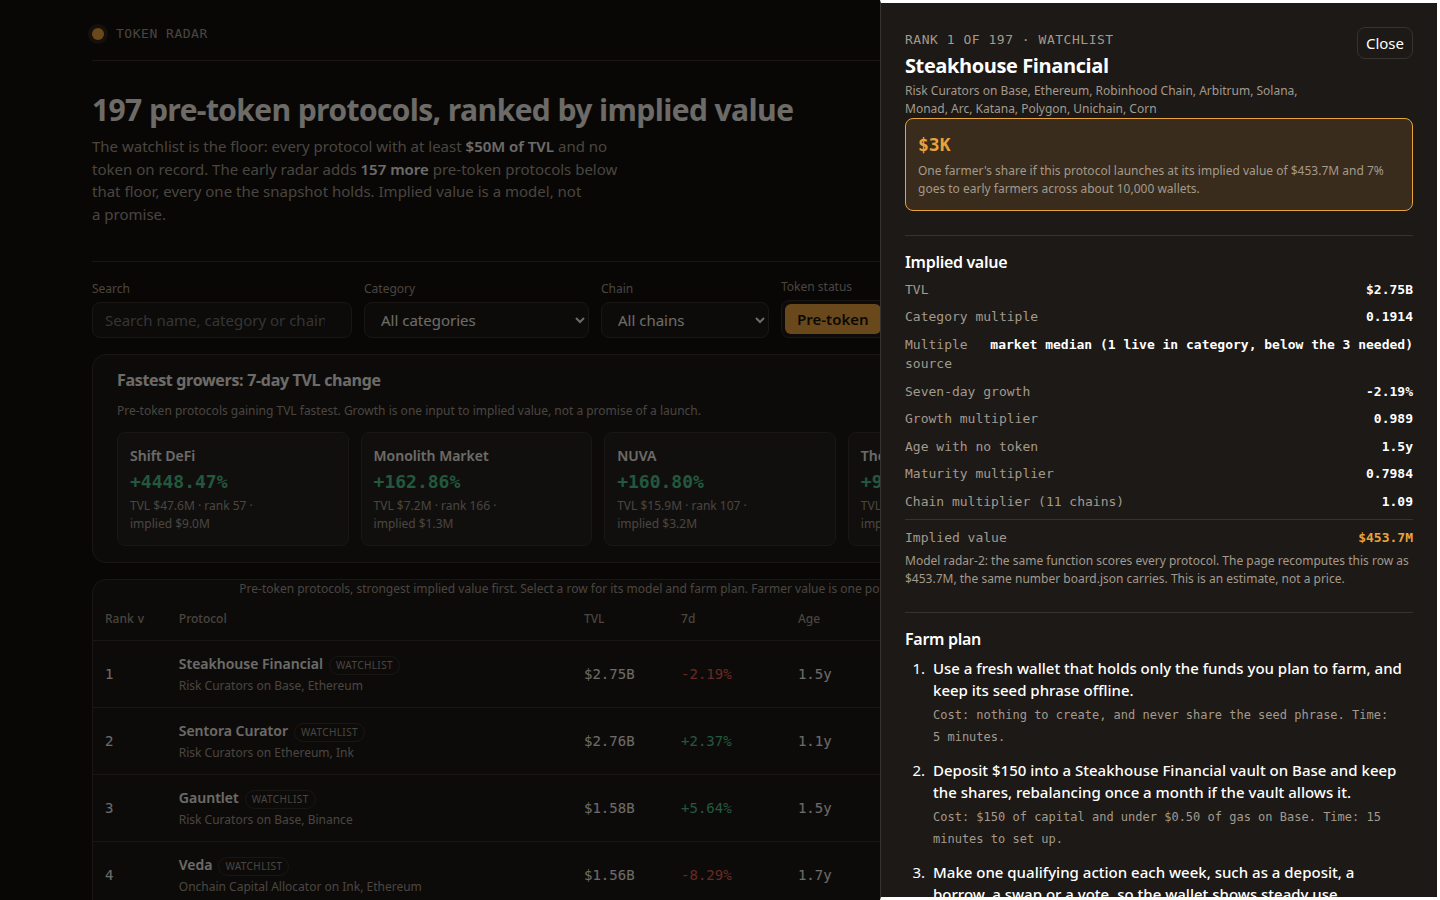
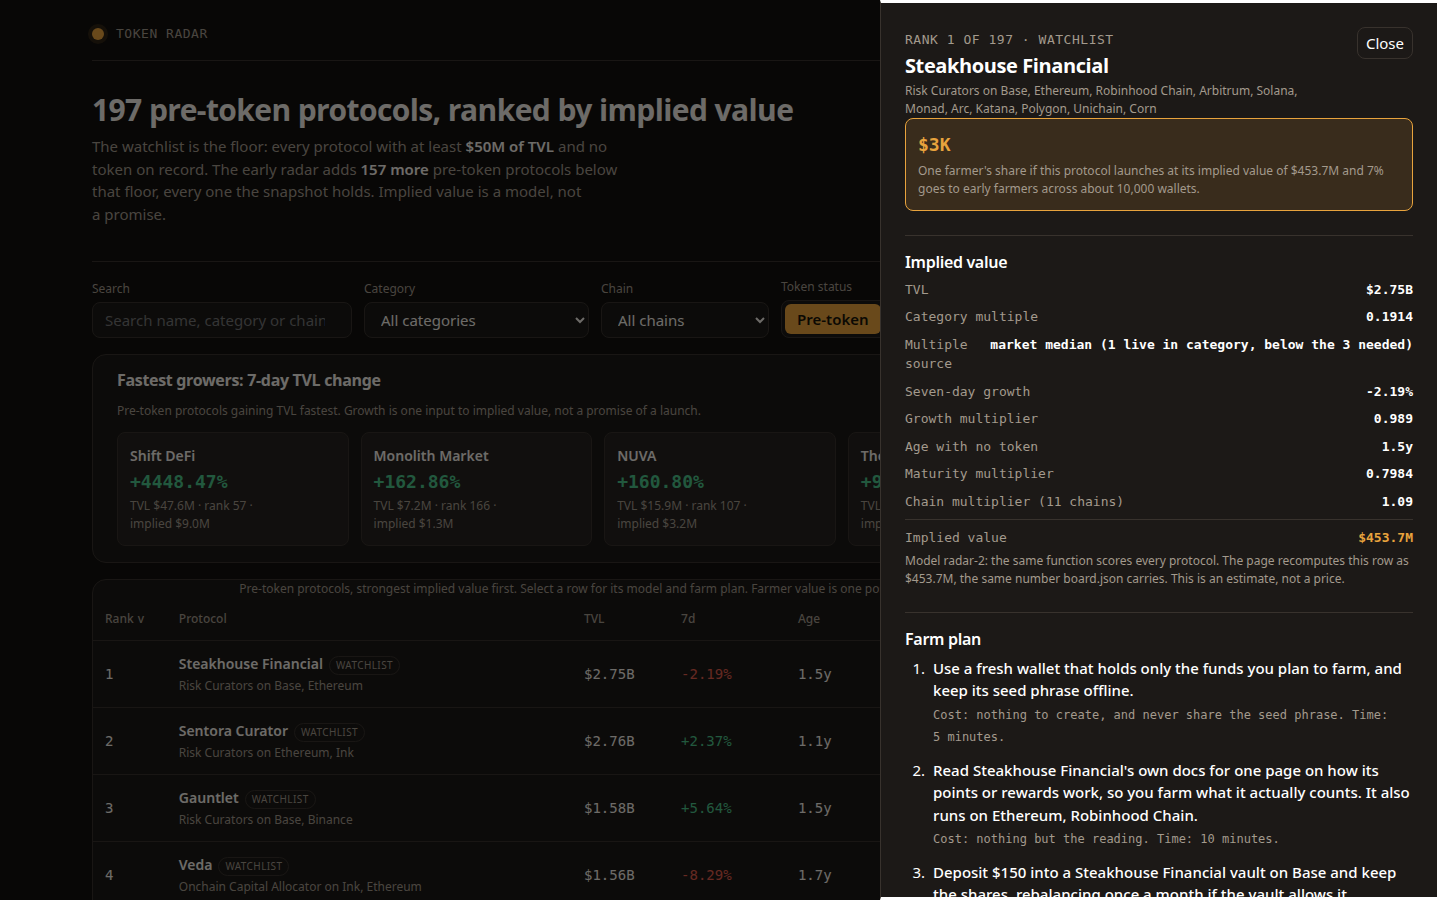
Add docs step to farm plans (8 steps)

Changed region(s): [[0.625, 0.84, 0.9688, 0.9333], [0.625, 0.9644, 0.9688, 1.0]]

diff --git a/lib/model.ts b/lib/model.ts
@@ -420,7 +420,7 @@ function actionFor(p: SnapshotProtocol, capital: number, chain: string): string 
 }
 
 /**
- * A protocol's farm plan: seven steps, each an action with a cost and a time. The plan is derived from
+ * A protocol's farm plan: eight steps, each an action with a cost and a time. The plan is derived from
  * the protocol's own record (category, chains, TVL, age, implied value), never from a hand-written list
  * of names. The last step states what the position could be worth if the protocol launches a token.
  */
@@ -431,11 +431,17 @@ export function farmSteps(p: SnapshotProtocol, age: number | null, implied: numb
   const action = actionFor(p, capital, chain);
   const gas = gasFor(chain);
   const value = farmerValue(implied, model);
+  const chainList = p.chains.length > 1 ? ` It also runs on ${p.chains.slice(1, 3).join(', ')}.` : '';
   return [
     {
       text: `Use a fresh wallet that holds only the funds you plan to farm, and keep its seed phrase offline.`,
       cost: 'nothing to create, and never share the seed phrase',
       time: '5 minutes',
+    },
+    {
+      text: `Read ${p.name}'s own docs for one page on how its points or rewards work, so you farm what it actually counts.${chainList}`,
+      cost: 'nothing but the reading',
+      time: '10 minutes',
     },
     {
       text: action,

diff --git a/dashboard/app.js b/dashboard/app.js
@@ -117,8 +117,10 @@
     var hold = holdDaysFor(p.age_days);
     var gas = gasFor(chain);
     var value = farmerOf(p.implied_value_usd);
+    var chainList = (p.chains || []).length > 1 ? ' It also runs on ' + (p.chains || []).slice(1, 3).join(', ') + '.' : '';
     return [
       { text: 'Use a fresh wallet that holds only the funds you plan to farm, and keep its seed phrase offline.', cost: 'nothing to create, and never share the seed phrase', time: '5 minutes' },
+      { text: "Read " + p.name + "'s own docs for one page on how its points or rewards work, so you farm what it actually counts." + chainList, cost: 'nothing but the reading', time: '10 minutes' },
       { text: actionFor(p, capital, chain), cost: '$' + capital + ' of capital and ' + gas, time: '15 minutes to set up' },
       { text: 'Make one qualifying action each week, such as a deposit, a borrow, a swap or a vote, so the wallet shows steady use.', cost: gas + ' a week', time: '10 minutes a week' },
       { text: 'Hold the position for at least ' + hold + ' days so the activity is counted in more than one snapshot.', cost: 'the $' + capital + ' stays in the position', time: hold + ' days' },
